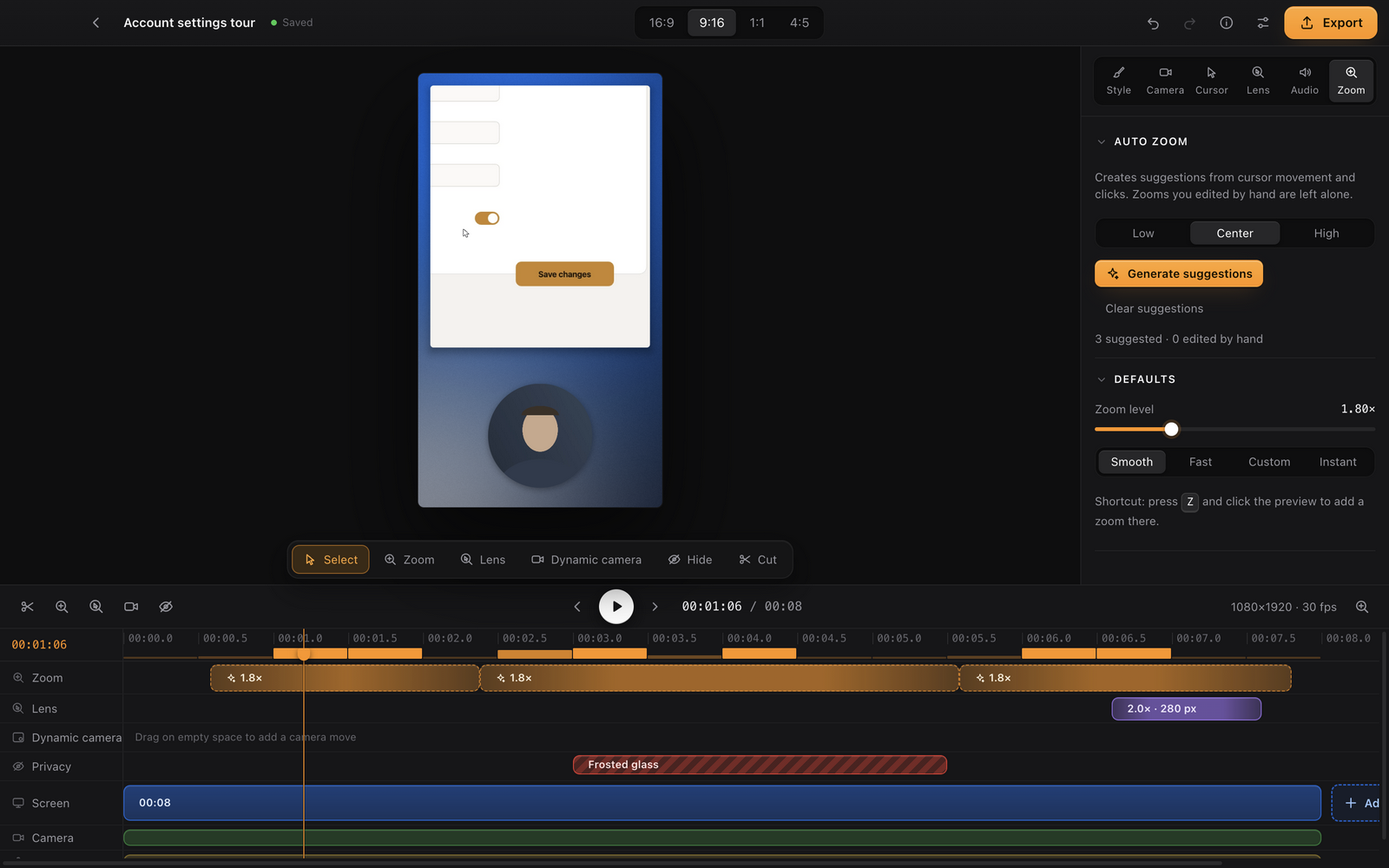
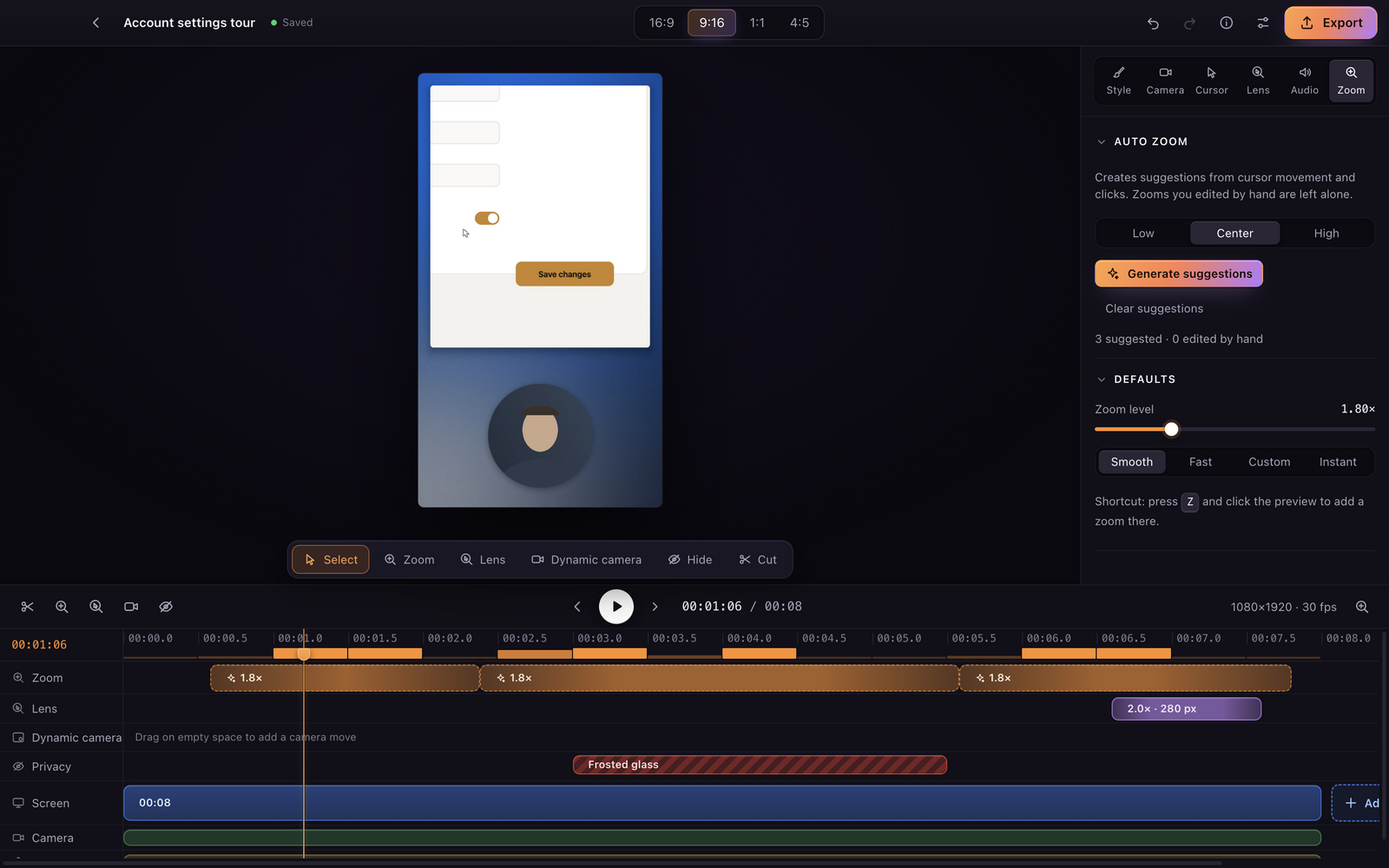
Arayüz paleti yenilendi: mor alt tonlu zemin, cam yüzeyler, turuncu-mor vurgu; README görüntüleri güncellendi

Changed region(s): [[0.7812, 0.279, 0.9062, 0.341], [0.9062, 0.0, 1.0, 0.062], [0.4688, 0.0, 0.5312, 0.062]]

diff --git a/apps/desktop/src/renderer/styles/app.css b/apps/desktop/src/renderer/styles/app.css
@@ -171,7 +171,7 @@ h1, h2, h3 { font-family: var(--font-display); margin: 0; letter-spacing: -0.01e
 .project-thumb img { width: 100%; height: 100%; object-fit: cover; display: block; transition: transform var(--t-slow) var(--ease); }
 .project-card:hover .project-thumb img { transform: scale(1.02); }
 .thumb-placeholder { display: grid; place-items: center; width: 100%; height: 100%; color: var(--text-3); }
-.duration-chip { position: absolute; right: 8px; bottom: 8px; background: rgba(14, 14, 15, 0.78); padding: 2px 7px; border-radius: 6px; font-size: var(--fs-11); backdrop-filter: blur(6px); }
+.duration-chip { position: absolute; right: 8px; bottom: 8px; background: rgba(10, 9, 16, 0.78); padding: 2px 7px; border-radius: 6px; font-size: var(--fs-11); backdrop-filter: blur(6px); }
 .project-meta { display: flex; align-items: center; justify-content: space-between; gap: 8px; padding: 10px 8px 10px 12px; }
 .project-meta > div:first-child { min-width: 0; display: grid; }
 .project-meta strong { overflow: hidden; text-overflow: ellipsis; white-space: nowrap; font-weight: 550; }
@@ -222,7 +222,7 @@ h1, h2, h3 { font-family: var(--font-display); margin: 0; letter-spacing: -0.01e
 .region-picker { display: grid; gap: 10px; }
 .region-canvas { position: relative; border-radius: var(--r-lg); overflow: hidden; background: var(--bg-stage); cursor: crosshair; border: 1px solid var(--line-soft); }
 .region-canvas img { width: 100%; height: 100%; object-fit: fill; display: block; opacity: 0.55; pointer-events: none; }
-.region-rect { position: absolute; border: 1.5px solid var(--accent); box-shadow: 0 0 0 9999px rgba(14, 14, 15, 0.55); border-radius: 4px; }
+.region-rect { position: absolute; border: 1.5px solid var(--accent); box-shadow: 0 0 0 9999px rgba(10, 9, 16, 0.55); border-radius: 4px; }
 .region-rect small { position: absolute; left: 6px; top: 6px; background: var(--accent); color: var(--accent-ink); padding: 1px 6px; border-radius: 4px; font-size: var(--fs-11); }
 .region-hint { position: absolute; inset: 0; display: grid; place-items: center; color: var(--text); font-size: var(--fs-15); text-shadow: 0 1px 8px rgba(0,0,0,0.6); pointer-events: none; }
 .recording-live { height: 100%; display: grid; place-content: center; justify-items: center; gap: 14px; text-align: center; }
@@ -315,7 +315,7 @@ h1, h2, h3 { font-family: var(--font-display); margin: 0; letter-spacing: -0.01e
 .field-group { display: grid; gap: 2px; margin-top: 4px; }
 .zoom-target { position: relative; width: 100%; border-radius: var(--r-md); overflow: hidden; background: var(--bg-stage); cursor: crosshair; border: 1px solid var(--line-soft); }
 .zoom-target canvas { width: 100%; height: 100%; display: block; opacity: 0.8; }
-.zoom-target-rect { position: absolute; border: 1.5px solid var(--accent); border-radius: 3px; box-shadow: 0 0 0 9999px rgba(14, 14, 15, 0.45); pointer-events: none; }
+.zoom-target-rect { position: absolute; border: 1.5px solid var(--accent); border-radius: 3px; box-shadow: 0 0 0 9999px rgba(10, 9, 16, 0.45); pointer-events: none; }
 .shape-grid { display: grid; grid-template-columns: repeat(3, 1fr); gap: 6px; margin: 4px 0; }
 .shape-btn { display: grid; justify-items: center; gap: 6px; padding: 8px 4px; border-radius: var(--r-md); border: 1px solid var(--line-soft); background: var(--surface-1); cursor: pointer; }
 .shape-btn.is-on { border-color: var(--accent); background: var(--accent-soft); }
@@ -381,7 +381,7 @@ h1, h2, h3 { font-family: var(--font-display); margin: 0; letter-spacing: -0.01e
 @keyframes toast-in { from { opacity: 0; transform: translate(-50%, 6px); } }
 
 /* Modal / export */
-.modal-backdrop { position: fixed; inset: 0; z-index: 50; background: rgba(6, 6, 7, 0.66); display: grid; place-items: center; backdrop-filter: blur(4px); }
+.modal-backdrop { position: fixed; inset: 0; z-index: 50; background: rgba(7, 5, 13, 0.64); display: grid; place-items: center; backdrop-filter: blur(4px); }
 .modal { width: min(1000px, calc(100vw - 48px)); max-height: calc(100vh - 48px); overflow: auto; background: var(--surface-1); border: 1px solid var(--line); border-radius: var(--r-xl); box-shadow: var(--shadow-pop); }
 .modal > header { display: flex; justify-content: space-between; align-items: flex-start; padding: 20px 22px 8px; }
 .modal > header h2 { font-size: var(--fs-18); }
@@ -429,7 +429,7 @@ body { letter-spacing: -0.003em; }
   color: var(--accent-ink);
   box-shadow: inset 0 1px 0 rgba(255, 255, 255, 0.28), 0 1px 2px rgba(0, 0, 0, 0.4), 0 8px 22px -8px var(--accent-glow);
 }
-.btn-primary:hover:not(:disabled) { background: linear-gradient(180deg, #ffb54d, var(--accent-hover)); }
+.btn-primary:hover:not(:disabled) { background: linear-gradient(180deg, #ffb565, var(--accent-hover)); }
 .btn-primary:active:not(:disabled) { background: var(--accent-press); box-shadow: inset 0 1px 2px rgba(0, 0, 0, 0.3); }
 .btn-secondary { background: var(--surface-2); border-color: var(--line); box-shadow: var(--hairline-top); }
 .btn-secondary:hover:not(:disabled) { background: var(--surface-3); border-color: rgba(255, 255, 255, 0.13); }
@@ -438,27 +438,27 @@ body { letter-spacing: -0.003em; }
 
 .segmented { background: var(--bg-stage); border: 1px solid var(--line-soft); box-shadow: inset 0 1px 2px rgba(0, 0, 0, 0.35); }
 .segmented button.is-on { background: var(--surface-3); color: var(--white); box-shadow: inset 0 1px 0 rgba(255, 255, 255, 0.07), 0 1px 3px rgba(0, 0, 0, 0.45); }
-.stage-toolbar .segmented { padding: 4px; border-radius: 12px; background: rgba(22, 22, 24, 0.9); backdrop-filter: blur(10px); box-shadow: 0 10px 30px rgba(0, 0, 0, 0.35), inset 0 1px 0 rgba(255, 255, 255, 0.04); }
+.stage-toolbar .segmented { padding: 4px; border-radius: 12px; background: rgba(30, 26, 40, 0.86); backdrop-filter: blur(10px); box-shadow: 0 10px 30px rgba(0, 0, 0, 0.35), inset 0 1px 0 rgba(255, 255, 255, 0.04); }
 .stage-toolbar .segmented button { height: 30px; padding: 0 12px; border-radius: 8px; }
 .stage-toolbar .segmented button.is-on { background: var(--accent-soft); color: var(--accent-hover); box-shadow: inset 0 0 0 1px rgba(var(--accent-rgb), 0.45); }
 
-.topbar { background: linear-gradient(180deg, #19191b, var(--bg-app)); border-bottom-color: var(--line-soft); }
+.topbar { background: linear-gradient(180deg, var(--surface-1), var(--bg-app)); border-bottom-color: var(--line-soft); }
 .icon-btn:hover:not(:disabled) { background: rgba(255, 255, 255, 0.06); }
 .icon-btn.is-active { background: var(--accent-soft); color: var(--accent-hover); box-shadow: inset 0 0 0 1px rgba(var(--accent-rgb), 0.4); }
 
 .nr-card, .perm-card, .project-card, .quick-card, .selected-panel, .source-card, .modal { box-shadow: var(--shadow-card); border-color: var(--line-soft); }
-.nr-card, .perm-card { background: linear-gradient(180deg, #1c1c1e, var(--surface-1)); }
+.nr-card, .perm-card { background: linear-gradient(180deg, var(--surface-1-hi), var(--surface-1)); }
 .project-card:hover, .quick-card:hover, .source-card:hover { border-color: rgba(255, 255, 255, 0.12); }
 .source-card.is-on { border-color: var(--accent); box-shadow: 0 0 0 3px rgba(var(--accent-rgb), 0.2), var(--shadow-card); }
 .quick-card svg, .eyebrow { color: var(--accent); }
-.record-cta { background: linear-gradient(180deg, #202022, var(--surface-1)); border-color: var(--line); }
+.record-cta { background: linear-gradient(180deg, var(--surface-2), var(--surface-1)); border-color: var(--line); }
 .record-cta:hover { border-color: rgba(255, 60, 51, 0.6); box-shadow: var(--shadow-card), 0 0 0 4px rgba(255, 60, 51, 0.08); }
 
 .section-toggle { text-transform: uppercase; font-size: 11px; letter-spacing: 0.08em; color: var(--text-2); }
 .section.is-open .section-toggle { color: var(--text); }
 .inspector, .transport { background: var(--bg-app); }
 .inspector-tabs { padding-bottom: 10px; border-bottom: 1px solid var(--line-soft); }
-.selected-panel { background: linear-gradient(180deg, #1e1e20, var(--surface-1)); border-color: var(--line); }
+.selected-panel { background: linear-gradient(180deg, var(--surface-1-hi), var(--surface-1)); border-color: var(--line); }
 .slider-row input[type='range']::-webkit-slider-thumb { background: var(--white); box-shadow: 0 0 0 3px rgba(var(--accent-rgb), 0.18), 0 1px 4px rgba(0, 0, 0, 0.6); }
 .toggle-row input:checked + .toggle-track { background: linear-gradient(180deg, var(--accent-hover), var(--accent)); }
 
@@ -487,7 +487,7 @@ body { letter-spacing: -0.003em; }
 .badge-warning { background: rgba(255, 206, 0, 0.12); color: var(--warning); }
 .badge-accent { background: var(--accent-soft); color: var(--accent-hover); }
 .note { background: var(--surface-1); border-color: var(--line-soft); }
-.toast { background: rgba(39, 39, 41, 0.96); backdrop-filter: blur(10px); }
+.toast { background: rgba(40, 34, 52, 0.92); backdrop-filter: blur(10px); }
 .meter span { background: linear-gradient(90deg, var(--success), var(--warning) 70%, var(--record)); }
 .shape-glyph { background: var(--track-camera); }
 .pos-btn span { background: var(--track-camera); }
@@ -501,7 +501,7 @@ body { letter-spacing: -0.003em; }
 .camera-box[style*="50%"] .camera-handle { right: 12%; bottom: 12%; }
 
 /* Settings: language card and the editor's settings modal */
-.lang-card { margin-top: 12px; padding: 16px; border-radius: var(--r-lg); border: 1px solid var(--line-soft); background: linear-gradient(180deg, #1c1c1e, var(--surface-1)); box-shadow: var(--shadow-card); display: grid; gap: 10px; justify-items: start; }
+.lang-card { margin-top: 12px; padding: 16px; border-radius: var(--r-lg); border: 1px solid var(--line-soft); background: linear-gradient(180deg, var(--surface-1-hi), var(--surface-1)); box-shadow: var(--shadow-card); display: grid; gap: 10px; justify-items: start; }
 .lang-card .segmented { min-width: 320px; }
 .lang-card p { margin: 0; }
 .settings.is-embedded { max-width: none; padding: 8px 22px 24px; gap: 26px; }
@@ -557,7 +557,7 @@ body { letter-spacing: -0.003em; }
 .cam-frame { position: absolute; pointer-events: none; border: 2px solid var(--track-camera); box-shadow: 0 0 0 3px rgba(var(--track-camera-rgb), 0.18); }
 .cam-frame.is-two { border-color: #8ff0a4; box-shadow: 0 0 0 3px rgba(143, 240, 164, 0.2), 0 10px 30px rgba(0, 0, 0, 0.35); background: rgba(var(--track-camera-rgb), 0.1); }
 .cam-frame.is-empty { border: 2px dashed #8ff0a4; background: rgba(var(--track-camera-rgb), 0.14); display: grid; place-items: center; }
-.cam-frame-tag { position: absolute; left: 50%; top: -28px; transform: translateX(-50%); display: inline-flex; align-items: center; gap: 6px; padding: 3px 9px 3px 4px; border-radius: 999px; background: rgba(14, 14, 15, 0.92); border: 1px solid rgba(var(--track-camera-rgb), 0.6); color: var(--white); font-size: 11px; font-weight: 600; white-space: nowrap; box-shadow: 0 6px 18px rgba(0, 0, 0, 0.4); }
+.cam-frame-tag { position: absolute; left: 50%; top: -28px; transform: translateX(-50%); display: inline-flex; align-items: center; gap: 6px; padding: 3px 9px 3px 4px; border-radius: 999px; background: rgba(10, 9, 16, 0.92); border: 1px solid rgba(var(--track-camera-rgb), 0.6); color: var(--white); font-size: 11px; font-weight: 600; white-space: nowrap; box-shadow: 0 6px 18px rgba(0, 0, 0, 0.4); }
 .cam-frame-tag.is-below { top: auto; bottom: -28px; }
 .cam-frame-tag b, .cam-slot-text b { display: inline-grid; place-items: center; width: 17px; height: 17px; border-radius: 50%; background: var(--track-camera); color: #06150a; font-size: 10.5px; font-weight: 800; }
 .cam-frame.is-two .cam-frame-tag b { background: #8ff0a4; }
@@ -593,11 +593,11 @@ body { letter-spacing: -0.003em; }
 .licenses h2 + .muted { margin-bottom: 12px; }
 .about-name { margin: 0 0 4px; }
 .license-own { padding: 14px 16px; border-radius: var(--r-lg); border: 1px solid rgba(255, 206, 0, 0.28); background: linear-gradient(180deg, rgba(255, 206, 0, 0.06), rgba(255, 206, 0, 0.02)); margin-bottom: 12px; display: grid; gap: 6px; }
-.license-own.is-set { border-color: var(--line-soft); background: linear-gradient(180deg, #1c1c1e, var(--surface-1)); }
+.license-own.is-set { border-color: var(--line-soft); background: linear-gradient(180deg, var(--surface-1-hi), var(--surface-1)); }
 .license-own > div { display: flex; align-items: center; gap: 10px; }
 .license-own p { margin: 0; }
 .license-list, .codec-list { display: grid; gap: 8px; }
-.license-row, .codec-row { padding: 12px 14px; border-radius: var(--r-lg); background: linear-gradient(180deg, #1c1c1e, var(--surface-1)); border: 1px solid var(--line-soft); display: grid; gap: 6px; box-shadow: var(--shadow-card); }
+.license-row, .codec-row { padding: 12px 14px; border-radius: var(--r-lg); background: linear-gradient(180deg, var(--surface-1-hi), var(--surface-1)); border: 1px solid var(--line-soft); display: grid; gap: 6px; box-shadow: var(--shadow-card); }
 .license-head { display: flex; align-items: center; gap: 10px; flex-wrap: wrap; }
 .license-head .link { margin-left: auto; }
 .license-row p { margin: 0; }
@@ -607,3 +607,99 @@ body { letter-spacing: -0.003em; }
 .codec-row dl > div { display: grid; grid-template-columns: 150px 1fr; gap: 10px; }
 .codec-row dt { color: var(--text-3); font-size: var(--fs-11); text-transform: uppercase; letter-spacing: 0.06em; padding-top: 2px; }
 .codec-row dd { margin: 0; font-size: var(--fs-12); color: var(--text-2); line-height: 1.5; }
+
+
+/* ── Palette v3: ink-violet ground, glass surfaces, orange → violet accent ───────────
+   Colour only: no sizes, spacing or layout change here. backdrop-filter is limited to small,
+   fixed surfaces (top bar on Home/Settings, the record card, quick cards, menus, HUD-free);
+   never over the preview canvas or the timeline. */
+body { background: var(--bg-app); }
+.shell { background: var(--app-glow), var(--bg-app); }
+.shell > .topbar {
+  background: linear-gradient(180deg, rgba(24, 20, 34, 0.72), rgba(18, 16, 25, 0.55));
+  -webkit-backdrop-filter: var(--glass-blur); backdrop-filter: var(--glass-blur);
+  border-bottom-color: var(--glass-border);
+}
+.editor .topbar { background: linear-gradient(180deg, #17141f, var(--bg-app)); border-bottom-color: var(--line-soft); }
+.topbar .segmented { background: rgba(10, 9, 16, 0.55); border-color: var(--glass-border); }
+.topbar .segmented button.is-on {
+  background: linear-gradient(118deg, rgba(var(--accent-rgb), 0.24), rgba(var(--accent-2-rgb), 0.26));
+  color: var(--white);
+  box-shadow: inset 0 0 0 1px rgba(255, 196, 160, 0.22), inset 0 1px 0 rgba(255, 255, 255, 0.12), 0 4px 14px -6px rgba(var(--accent-2-rgb), 0.55);
+}
+.segmented { background: rgba(10, 9, 16, 0.7); }
+.segmented button.is-on { background: var(--surface-3); box-shadow: inset 0 1px 0 rgba(255, 255, 255, 0.09), 0 1px 3px rgba(0, 0, 0, 0.45); }
+::selection { background: rgba(var(--accent-2-rgb), 0.38); }
+::-webkit-scrollbar-thumb { background-color: rgba(228, 216, 255, 0.10); }
+::-webkit-scrollbar-thumb:hover { background-color: rgba(228, 216, 255, 0.18); }
+
+/* Buttons */
+.btn-primary {
+  background: var(--accent-grad); color: var(--accent-ink);
+  box-shadow: inset 0 1px 0 rgba(255, 255, 255, 0.32), 0 1px 2px rgba(0, 0, 0, 0.4), 0 10px 26px -10px rgba(var(--accent-2-rgb), 0.6), 0 6px 18px -10px var(--accent-glow);
+}
+.btn-primary:hover:not(:disabled) { background: var(--accent-grad-hover); }
+.btn-primary:active:not(:disabled) { background: var(--accent-grad-press); box-shadow: inset 0 1px 2px rgba(0, 0, 0, 0.3); }
+.btn-secondary { background: rgba(255, 255, 255, 0.055); border-color: var(--glass-border); box-shadow: var(--glass-edge); }
+.btn-secondary:hover:not(:disabled) { background: rgba(255, 255, 255, 0.09); border-color: rgba(232, 222, 255, 0.18); }
+.btn-ghost:hover:not(:disabled), .icon-btn:hover:not(:disabled) { background: rgba(232, 222, 255, 0.07); }
+.icon-btn.is-active { background: linear-gradient(118deg, rgba(var(--accent-rgb), 0.18), rgba(var(--accent-2-rgb), 0.18)); color: var(--accent-hover); box-shadow: inset 0 0 0 1px rgba(var(--accent-rgb), 0.38); }
+.toggle-row input:checked + .toggle-track { background: var(--accent-grad); }
+.loading-line { background-image: linear-gradient(90deg, transparent, var(--accent), var(--accent-2), transparent); }
+.bar span { background: var(--accent-grad); }
+.badge-accent { background: linear-gradient(118deg, rgba(var(--accent-rgb), 0.2), rgba(var(--accent-2-rgb), 0.2)); color: #ffc08a; }
+.editable-input { border-color: var(--accent-2); }
+
+/* Home: the hero and the record card */
+.eyebrow { background: var(--accent-grad-text); -webkit-background-clip: text; background-clip: text; color: transparent; }
+.hero h1 { color: var(--white); }
+.hero h1 span { background: var(--accent-grad-text); -webkit-background-clip: text; background-clip: text; color: transparent; }
+.hero p { color: var(--text-2); }
+.record-cta {
+  position: relative; background: var(--glass-bg); border-color: transparent;
+  -webkit-backdrop-filter: var(--glass-blur); backdrop-filter: var(--glass-blur);
+  box-shadow: var(--glass-edge), 0 18px 50px -22px rgba(var(--accent-2-rgb), 0.55), 0 10px 30px rgba(4, 2, 10, 0.3);
+}
+.record-cta::before {
+  content: ''; position: absolute; inset: -1px; border-radius: inherit; padding: 1px; pointer-events: none;
+  background: linear-gradient(118deg, rgba(255, 164, 71, 0.75), rgba(255, 129, 82, 0.35) 45%, rgba(178, 124, 255, 0.7));
+  -webkit-mask: linear-gradient(#000 0 0) content-box, linear-gradient(#000 0 0); -webkit-mask-composite: xor; mask-composite: exclude;
+  opacity: 0.6; transition: opacity var(--t-med) var(--ease);
+}
+.record-cta:hover { border-color: transparent; box-shadow: var(--glass-edge), 0 22px 56px -20px rgba(var(--accent-2-rgb), 0.7), 0 0 0 4px rgba(var(--accent-rgb), 0.07); }
+.record-cta:hover::before { opacity: 1; }
+.record-cta-dot { background: radial-gradient(circle at 50% 40%, rgba(255, 60, 51, 0.26), rgba(255, 60, 51, 0.12)); box-shadow: 0 0 0 6px rgba(255, 60, 51, 0.07), 0 0 24px rgba(255, 60, 51, 0.22); }
+.quick-card {
+  background: var(--glass-bg); border-color: var(--glass-border); box-shadow: var(--glass-edge), 0 10px 30px rgba(4, 2, 10, 0.28);
+  -webkit-backdrop-filter: var(--glass-blur); backdrop-filter: var(--glass-blur);
+}
+.quick-card:hover { background: linear-gradient(180deg, rgba(255, 255, 255, 0.09), rgba(255, 255, 255, 0.035)); border-color: rgba(var(--accent-rgb), 0.4); }
+.quick-card small { color: var(--text-2); }
+.project-card { background: var(--glass-bg); border-color: var(--glass-border); box-shadow: var(--glass-edge), 0 10px 30px rgba(4, 2, 10, 0.3); }
+.project-card:hover { border-color: rgba(var(--accent-2-rgb), 0.42); }
+.project-thumb { background: var(--bg-stage); }
+.project-meta small { color: var(--text-2); }
+.menu { background: var(--glass-bg-strong); border-color: var(--glass-border); -webkit-backdrop-filter: var(--glass-blur); backdrop-filter: var(--glass-blur); }
+.menu button:hover { background: rgba(232, 222, 255, 0.08); }
+
+/* Cards on Home, New recording and Settings */
+.nr-card, .perm-card, .lang-card, .license-row, .codec-row, .license-own.is-set, .source-card {
+  background: var(--glass-bg); border-color: var(--glass-border); box-shadow: var(--glass-edge), 0 10px 30px rgba(4, 2, 10, 0.26);
+}
+.source-card.is-on { border-color: var(--accent); box-shadow: 0 0 0 3px rgba(var(--accent-rgb), 0.2), 0 12px 32px -14px rgba(var(--accent-2-rgb), 0.5); }
+.note { background: rgba(255, 255, 255, 0.035); border-color: var(--line-soft); }
+.banner.is-info { background: linear-gradient(90deg, rgba(var(--accent-rgb), 0.16), rgba(var(--accent-2-rgb), 0.14)); }
+
+/* Modal: a strong glass pane over the existing blurred backdrop (no second blur layer). */
+.modal { background: var(--glass-bg-strong); border-color: var(--glass-border); box-shadow: var(--shadow-pop), var(--glass-edge); }
+.modal > footer { border-top-color: var(--line-soft); }
+.popover { background: var(--glass-bg-strong); border-color: var(--glass-border); }
+.toast { background: rgba(40, 34, 52, 0.94); border-color: var(--glass-border); }
+
+/* Editor: opaque, tinted surfaces — nothing blurred over the preview or the timeline. */
+.stage { background: radial-gradient(900px 520px at 50% 35%, rgba(122, 82, 220, 0.07), transparent 70%), var(--bg-stage); }
+.selected-panel { background: linear-gradient(180deg, #221d2d, var(--surface-1)); border-color: rgba(var(--accent-2-rgb), 0.22); box-shadow: var(--glass-edge), 0 10px 30px rgba(4, 2, 10, 0.3); }
+.swatch.is-on, .shape-btn.is-on { border-color: var(--accent); }
+.tl-playhead { background: linear-gradient(180deg, var(--accent), var(--accent-hover) 40%, #ffd2a6); box-shadow: 0 0 0 0.5px rgba(0, 0, 0, 0.6), 0 0 6px rgba(var(--accent-rgb), 0.45); }
+.tl-playhead-knob { background: linear-gradient(180deg, var(--accent-hover), var(--accent)); box-shadow: 0 2px 6px rgba(0, 0, 0, 0.5), 0 0 0 1px rgba(255, 255, 255, 0.25) inset; }
+.tl-row { border-bottom-color: rgba(228, 216, 255, 0.045); }

diff --git a/apps/desktop/src/renderer/styles/tokens.css b/apps/desktop/src/renderer/styles/tokens.css
@@ -1,50 +1,69 @@
-/* Zeyvola design tokens — neutral graphite surfaces, one vivid orange accent,
-   record red reserved for recording state. Palette chosen by the product owner. */
+/* Zeyvola design tokens — deep ink-violet surfaces with a glass layer, an orange → violet
+   accent used sparingly, record red reserved for recording state. */
 :root {
-  --bg-stage: #0e0e0f;
-  --bg-app: #161618;
-  --surface-1: #1a1a1c;
-  --surface-2: #222224;
-  --surface-3: #272729;
-  --line: rgba(255, 255, 255, 0.09);
-  --line-soft: rgba(255, 255, 255, 0.055);
-  --hairline-top: inset 0 1px 0 rgba(255, 255, 255, 0.045);
-  --text: #f5f5f7;
-  --text-2: #96969d;
-  --text-3: #66666c;
+  --bg-stage: #0a0910;
+  --bg-app: #121019;
+  --surface-1: #18151f;
+  --surface-1-hi: #1e1a27;
+  --surface-2: #211d2b;
+  --surface-3: #2b2636;
+  --line: rgba(228, 216, 255, 0.10);
+  --line-soft: rgba(228, 216, 255, 0.062);
+  --hairline-top: inset 0 1px 0 rgba(255, 255, 255, 0.06);
+  --text: #f7f4fb;
+  --text-2: #aaa3b9;
+  --text-3: #817a90;
   --light: #f1f3f7;
   --white: #ffffff;
 
-  --accent: #ff940c;
-  --accent-hover: #ffa733;
-  --accent-press: #c96800;
-  --accent-deep: #ad5200;
-  --accent-ink: #191200;
-  --accent-soft: #3a2914;
-  --accent-glow: rgba(255, 148, 12, 0.28);
-  --accent-rgb: 255, 148, 12;
+  --accent: #ff8f2a;
+  --accent-hover: #ffa552;
+  --accent-press: #d96c10;
+  --accent-deep: #b25208;
+  --accent-ink: #1c0d06;
+  --accent-soft: #3a2420;
+  --accent-glow: rgba(255, 143, 42, 0.30);
+  --accent-rgb: 255, 143, 42;
+  --accent-2: #a77bff;
+  --accent-2-rgb: 167, 123, 255;
+  --accent-2-soft: #2a2142;
+  --accent-grad: linear-gradient(118deg, #ffa447 0%, #ff8152 46%, #b27cff 100%);
+  --accent-grad-hover: linear-gradient(118deg, #ffb565 0%, #ff9068 46%, #bf90ff 100%);
+  --accent-grad-press: linear-gradient(118deg, #e08a30 0%, #e06c42 46%, #9a66e8 100%);
+  --accent-grad-text: linear-gradient(100deg, #ffb062 0%, #ff8f6a 40%, #c49bff 100%);
+
+  /* Glass: translucent layers over the glow, a bright top edge, blur only on small fixed surfaces. */
+  --glass-bg: linear-gradient(180deg, rgba(255, 255, 255, 0.062), rgba(255, 255, 255, 0.024));
+  --glass-bg-strong: linear-gradient(180deg, rgba(40, 34, 54, 0.92), rgba(24, 21, 33, 0.95));
+  --glass-border: rgba(232, 222, 255, 0.11);
+  --glass-edge: inset 0 1px 0 rgba(255, 255, 255, 0.085);
+  --glass-blur: blur(18px) saturate(150%);
+  --app-glow:
+    radial-gradient(1100px 560px at 8% -10%, rgba(255, 143, 42, 0.12), transparent 62%),
+    radial-gradient(980px 640px at 96% 0%, rgba(150, 96, 255, 0.15), transparent 64%),
+    radial-gradient(1200px 700px at 55% 125%, rgba(122, 76, 230, 0.10), transparent 62%);
 
   --record: #ff3c33;
   --record-soft: rgba(255, 60, 51, 0.16);
-  --success: #2dcb4e;
-  --success-soft: #0a2211;
-  --info: #0c79ff;
-  --info-soft: #0d1326;
-  --warning: #ffce00;
+  --success: #2fd06a;
+  --success-soft: #0b2416;
+  --info: #4a8dff;
+  --info-soft: #121733;
+  --warning: #ffcf2e;
   --danger: #ff3c33;
 
-  --track-screen: #0c79ff;
-  --track-screen-rgb: 12, 121, 255;
-  --track-camera: #2dcb4e;
-  --track-camera-rgb: 45, 203, 78;
-  --track-audio: #ffce00;
-  --track-audio-rgb: 255, 206, 0;
-  --track-zoom: #ff940c;
-  --track-zoom-rgb: 255, 148, 12;
+  --track-screen: #3d86ff;
+  --track-screen-rgb: 61, 134, 255;
+  --track-camera: #2fd06a;
+  --track-camera-rgb: 47, 208, 106;
+  --track-audio: #ffcf2e;
+  --track-audio-rgb: 255, 207, 46;
+  --track-zoom: #ff8f2a;
+  --track-zoom-rgb: 255, 143, 42;
   --track-privacy: #ff3c33;
   --track-privacy-rgb: 255, 60, 51;
-  --track-magnifier: #a67cff;
-  --track-magnifier-rgb: 166, 124, 255;
+  --track-magnifier: #c58cff;
+  --track-magnifier-rgb: 197, 140, 255;
   --track-overlay: #f1f3f7;
 
   --font-ui: -apple-system, BlinkMacSystemFont, "Segoe UI Variable Text", "Segoe UI", system-ui, sans-serif;
@@ -77,9 +96,9 @@
   --t-med: 200ms;
   --t-slow: 320ms;
 
-  --shadow-pop: 0 24px 64px rgba(0, 0, 0, 0.55), 0 2px 8px rgba(0, 0, 0, 0.35), inset 0 1px 0 rgba(255, 255, 255, 0.05);
-  --shadow-card: inset 0 1px 0 rgba(255, 255, 255, 0.04), 0 10px 30px rgba(0, 0, 0, 0.28);
-  --focus: 0 0 0 2px var(--bg-app), 0 0 0 4px rgba(255, 148, 12, 0.7);
+  --shadow-pop: 0 24px 64px rgba(4, 2, 10, 0.6), 0 2px 8px rgba(0, 0, 0, 0.35), inset 0 1px 0 rgba(255, 255, 255, 0.07);
+  --shadow-card: inset 0 1px 0 rgba(255, 255, 255, 0.06), 0 10px 30px rgba(4, 2, 10, 0.32);
+  --focus: 0 0 0 2px var(--bg-app), 0 0 0 4px rgba(var(--accent-2-rgb), 0.85);
 
   color-scheme: dark;
 }

diff --git a/apps/desktop/src/renderer/styles/hud.css b/apps/desktop/src/renderer/styles/hud.css
@@ -5,21 +5,21 @@ body { font: 500 13px/1 var(--font-ui); color: var(--text); -webkit-font-smoothi
 .mono { font-family: var(--font-mono); font-variant-numeric: tabular-nums; }
 .hud {
   margin: 6px; height: 52px; display: flex; align-items: center; gap: 8px; padding: 0 8px 0 16px;
-  border-radius: 26px; background: rgba(22, 22, 24, 0.94); border: 1px solid rgba(255, 255, 255, 0.08);
-  box-shadow: 0 10px 30px rgba(0, 0, 0, 0.45);
+  border-radius: 26px; background: linear-gradient(180deg, rgba(36, 30, 50, 0.95), rgba(20, 17, 28, 0.96)); border: 1px solid rgba(232, 222, 255, 0.12);
+  box-shadow: 0 10px 30px rgba(4, 2, 10, 0.5), inset 0 1px 0 rgba(255, 255, 255, 0.09);
 }
 .rec-dot { width: 10px; height: 10px; border-radius: 50%; background: var(--record); animation: blink 1.4s ease-in-out infinite; }
 .hud.is-paused .rec-dot { animation: none; background: var(--accent); }
 @keyframes blink { 50% { opacity: 0.35; } }
 .time { font-size: 15px; min-width: 50px; }
-.level { width: 46px; height: 4px; border-radius: 4px; background: rgba(255,255,255,0.1); overflow: hidden; }
+.level { width: 46px; height: 4px; border-radius: 4px; background: rgba(232,222,255,0.12); overflow: hidden; }
 .level span { display: block; height: 100%; background: var(--success); transform-origin: left; transition: transform 80ms linear; }
-.sep { width: 1px; height: 22px; background: rgba(255,255,255,0.1); margin: 0 2px; }
+.sep { width: 1px; height: 22px; background: rgba(232,222,255,0.12); margin: 0 2px; }
 .hud-btn { height: 36px; min-width: 36px; border: 0; border-radius: 18px; background: transparent; color: var(--text); display: inline-flex; align-items: center; justify-content: center; gap: 6px; cursor: pointer; }
-.hud-btn:hover:not(:disabled) { background: rgba(255,255,255,0.08); }
+.hud-btn:hover:not(:disabled) { background: rgba(232,222,255,0.09); }
 .hud-btn:disabled { opacity: 0.4; }
-.hud-btn.stop { background: var(--record); padding: 0 14px 0 12px; font-weight: 600; }
+.hud-btn.stop { background: linear-gradient(180deg, #ff5a52, var(--record)); box-shadow: inset 0 1px 0 rgba(255,255,255,0.22); padding: 0 14px 0 12px; font-weight: 600; }
 .hud-btn.stop:hover:not(:disabled) { background: #ff5a52; }
 .hud-countdown { justify-content: center; gap: 14px; padding: 0 10px 0 18px; }
-.count { font: 700 26px/1 var(--font-display); color: var(--accent); animation: pop 900ms cubic-bezier(0.3, 0, 0.1, 1); }
+.count { font: 700 26px/1 var(--font-display); color: var(--accent); background: var(--accent-grad-text); -webkit-background-clip: text; background-clip: text; -webkit-text-fill-color: transparent; animation: pop 900ms cubic-bezier(0.3, 0, 0.1, 1); }
 @keyframes pop { from { transform: scale(1.6); opacity: 0; } to { transform: scale(1); opacity: 1; } }

diff --git a/apps/desktop/src/renderer/screens/editor/Inspector.tsx b/apps/desktop/src/renderer/screens/editor/Inspector.tsx
@@ -82,7 +82,7 @@ function ZoomTarget({ store, player, item }: { store: EditorStore; player: Playe
     const draw = () => {
       const ctx = c.getContext('2d');
       if (!ctx) return;
-      ctx.fillStyle = '#0f1012';
+      ctx.fillStyle = '#0a0910';
       ctx.fillRect(0, 0, c.width, c.height);
       if (v.readyState >= 2) ctx.drawImage(v, 0, 0, c.width, c.height);
     };
